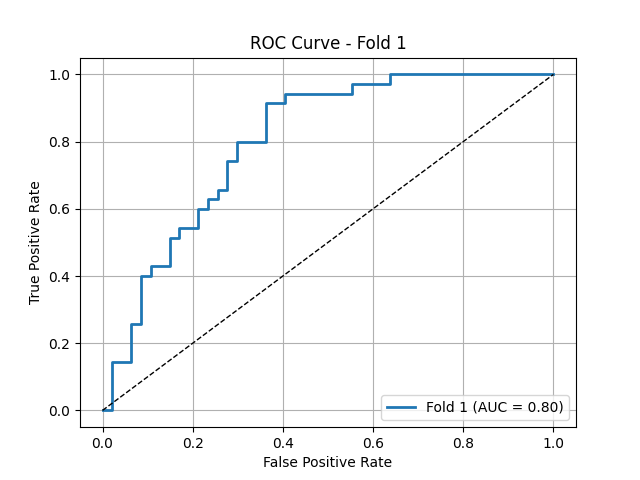
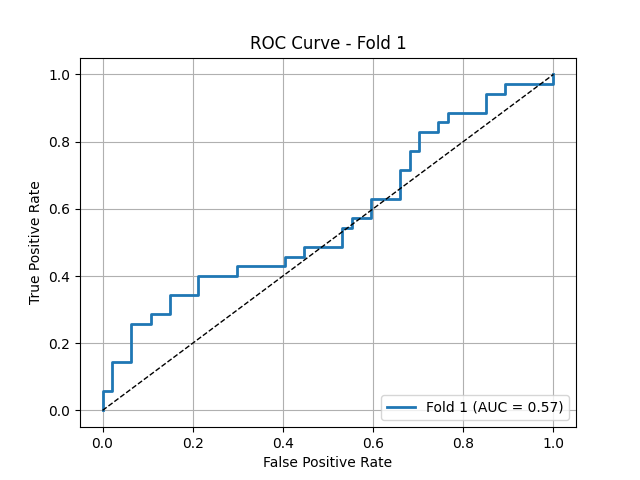
densenet model experiment

diff --git a/models_imagenetbases.py b/models_imagenetbases.py
@@ -20,6 +20,43 @@ from torchvision.models import (
 import torch.nn as nn
 import segmentation_models_pytorch as smp
 
+class AsymmetricLoss(nn.Module):
+    def __init__(self, gamma_pos=0.0, gamma_neg=4.0, clip=0.05, eps=1e-8):
+        super().__init__()
+        self.gamma_pos = gamma_pos
+        self.gamma_neg = gamma_neg
+        self.clip = clip
+        self.eps = eps
+
+    def forward(self, inputs, targets):
+        inputs_sigmoid = torch.sigmoid(inputs)
+        inputs_sigmoid = torch.clamp(inputs_sigmoid, self.eps, 1 - self.eps)
+
+        if self.clip is not None and self.clip > 0:
+            inputs_sigmoid = (inputs_sigmoid - self.clip).clamp(min=0, max=1)
+
+        targets = targets.float()
+        loss_pos = targets * torch.log(inputs_sigmoid) * (1 - inputs_sigmoid) ** self.gamma_pos
+        loss_neg = (1 - targets) * torch.log(1 - inputs_sigmoid) * inputs_sigmoid ** self.gamma_neg
+        loss = -loss_pos - loss_neg
+        return loss.mean()
+    
+class FocalLoss(nn.Module):
+    def __init__(self, alpha=0.25, gamma=2.0, reduction='mean'):
+        super(FocalLoss, self).__init__()
+        self.alpha = alpha
+        self.gamma = gamma
+        self.reduction = reduction
+
+    def forward(self, inputs, targets):
+        bce_loss = F.binary_cross_entropy_with_logits(inputs, targets, reduction='none')
+        probs = torch.sigmoid(inputs)
+        p_t = targets * probs + (1 - targets) * (1 - probs)
+        alpha_t = targets * self.alpha + (1 - targets) * (1 - self.alpha)
+        loss = alpha_t * (1 - p_t) ** self.gamma * bce_loss
+        return loss.mean() if self.reduction == 'mean' else loss.sum()
+    
+
 class SDFModel(nn.Module):
     def __init__(self):
         super(SDFModel, self).__init__()
@@ -284,7 +321,7 @@ class BinaryClassification(pl.LightningModule):
         self.model = ImageNet_Models(name_model="densenet")
 
 
-        self.loss_fn = nn.BCEWithLogitsLoss()  # More stable than BCELoss
+        self.loss_fn = AsymmetricLoss()  #nn.BCEWithLogitsLoss()  # More stable than BCELoss
         self.accuracy_metric = BinaryAccuracy()  # Accuracy metric using TorchMetrics
         self.auc_metric = torchmetrics.AUROC(task="binary")
 
